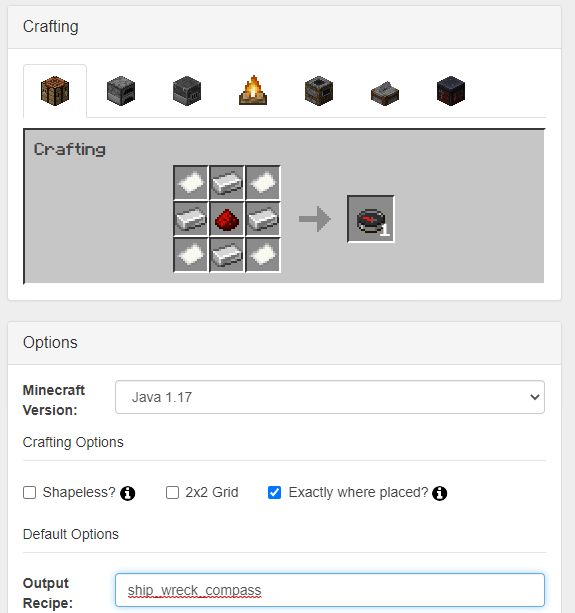
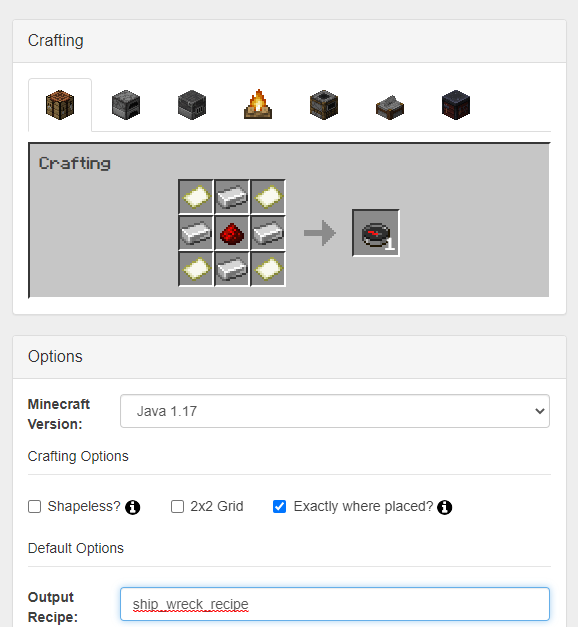
Change ship wreck recipe

diff --git a/src/main/java/uk/bethan/compassesPlugin/compasses/ShipWreckCompass.java b/src/main/java/uk/bethan/compassesPlugin/compasses/ShipWreckCompass.java
@@ -18,7 +18,7 @@ public class ShipWreckCompass implements Compass {
 
         shipWreckCompassRecipe.shape("PIP", "IRI", "PIP");
 
-        shipWreckCompassRecipe.setIngredient('P', Material.PAPER);
+        shipWreckCompassRecipe.setIngredient('P', Material.MAP);
         shipWreckCompassRecipe.setIngredient('I', Material.IRON_INGOT);
         shipWreckCompassRecipe.setIngredient('R', Material.REDSTONE);
 
